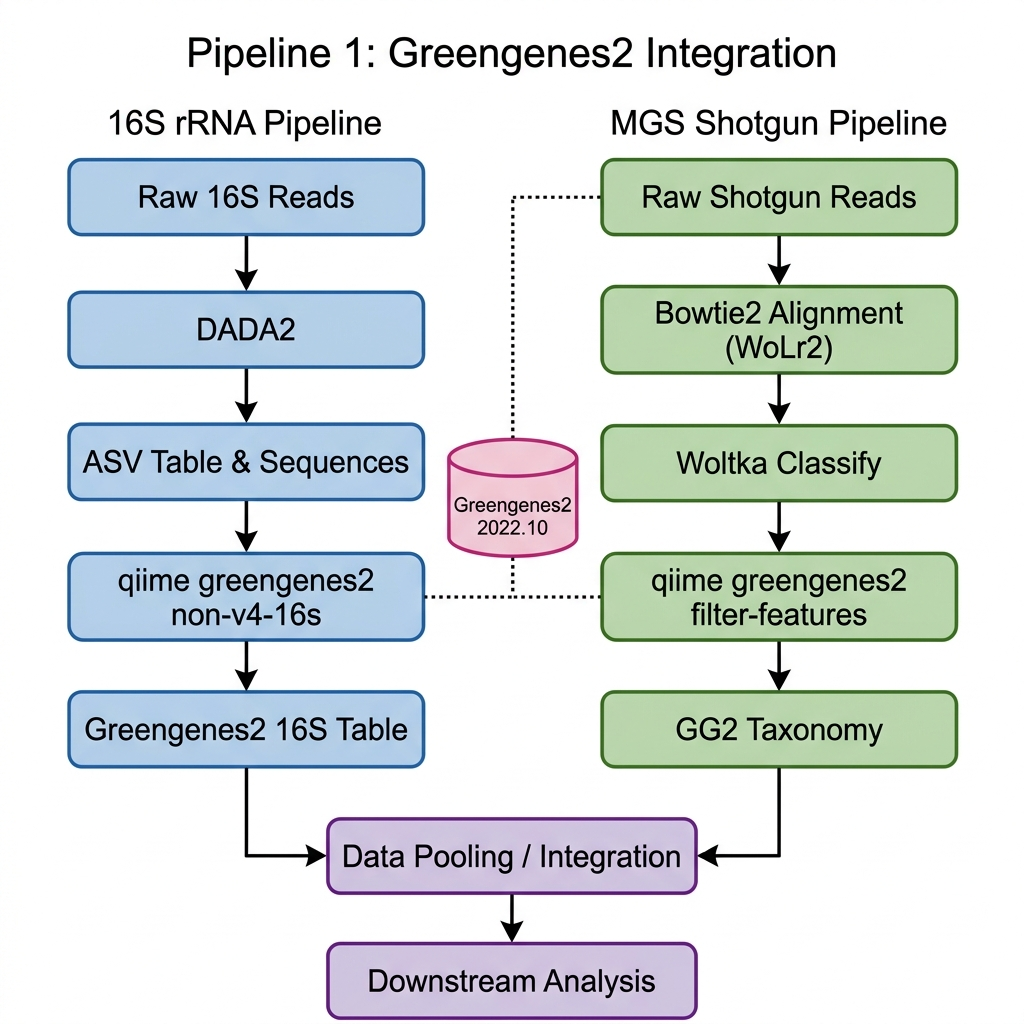
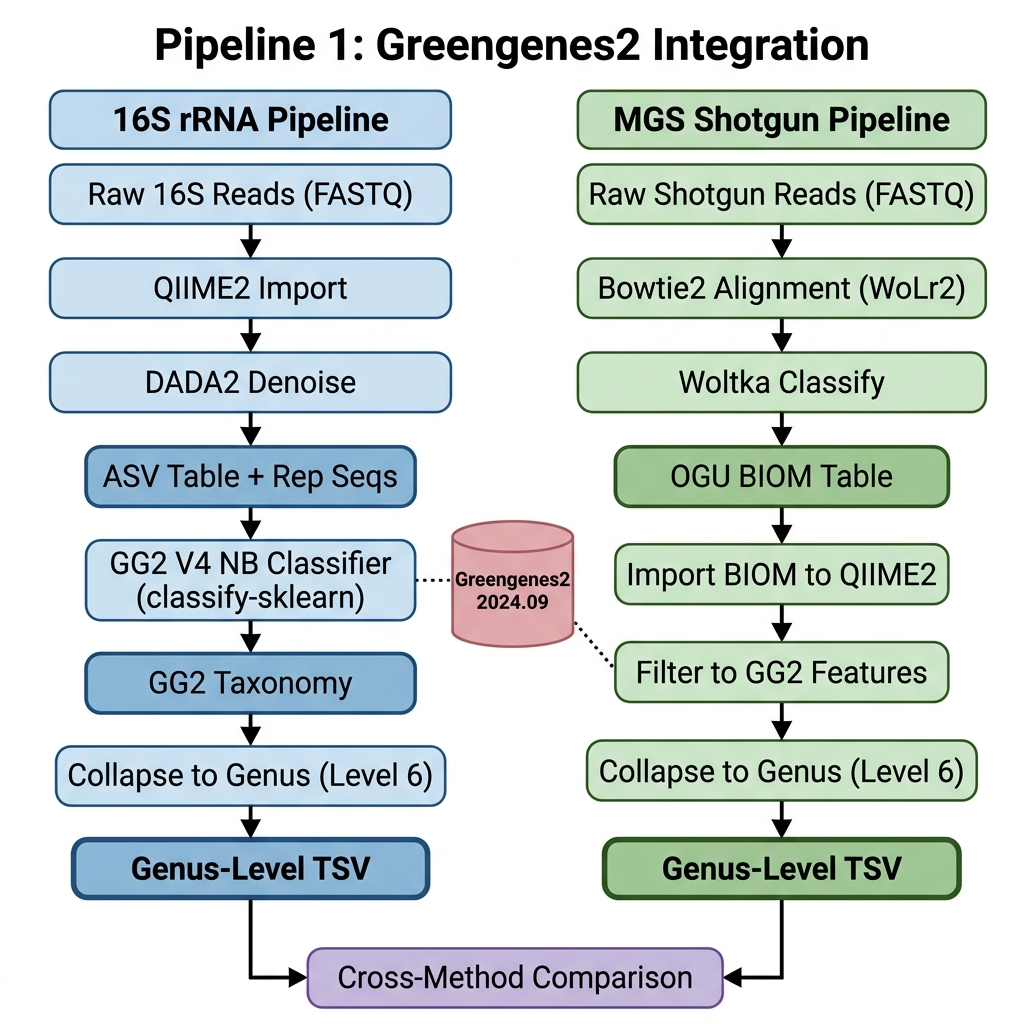
Update Pipeline 1 and Pipeline 3 flowcharts to match actual workflows
Pipeline 1:
- Replace q2-greengenes2 plugin commands with classify-sklearn
- Update GG2 database version from 2022.10 to 2024.09
- Add BIOM import, GG2 feature filtering, genus collapse, and TSV export steps

Pipeline 3:
- Remove Barrnap (SortMeRNA only, v4.3.6)
- Replace Kraken2/Bracken/MOSHPIT with DADA2 + classify-sklearn in QIIME2
- Show 16S side reusing DADA2 outputs from Pipeline 1
- Distinguish V4 vs full-length RefSeq 16S NB classifiers
- Add genus collapse and TSV export steps

diff --git a/pipeline_1_workflow.md b/pipeline_1_workflow.md
@@ -1,6 +1,6 @@
-# Pipeline 1: Integrated Taxonomy Workflow
+# Pipeline 1: Greengenes2 Integration
 
-This document outlines the standard operating procedure for **Pipeline 1**, which uses **Greengenes2** as the common reference to pool 16S and Metagenomic Shotgun (MGS) data.
+This document outlines the workflow for **Pipeline 1**, which uses **Greengenes2 (2024.09)** as the common reference taxonomy for both 16S amplicon and shotgun metagenomics data.
 
 ## Workflow Visualization
 
@@ -8,16 +8,31 @@ This document outlines the standard operating procedure for **Pipeline 1**, whic
 
 ## Key Implementation Steps
 
-### 1. 16S Harmonization
-- **Purpose**: Map amplicon sequence variants (ASVs) to the Greengenes2 reference tree.
-- **Key Command**: `qiime greengenes2 non-v4-16s` or `qiime greengenes2 filter-features`.
+### 16S rRNA Pipeline
 
-### 2. MGS Alignment
-- **Requirement**: Reads must be aligned against **Web of Life version 2 (WoLr2)** genomes.
-- **Tool**: Bowtie2 or similar aligner.
+1. **QIIME2 Import** — Import paired-end 16S FASTQ files via manifest into QIIME2 (`SampleData[PairedEndSequencesWithQuality]`).
+2. **DADA2 Denoise** — Denoise paired reads (`qiime dada2 denoise-paired`, trunc 150/150) to produce ASV feature table and representative sequences.
+3. **GG2 V4 NB Classifier** — Classify ASVs against the Greengenes2 2024.09 V4 backbone Naive Bayes classifier using `qiime feature-classifier classify-sklearn`.
+4. **Collapse to Genus** — Collapse the ASV table to genus level (level 6) using `qiime taxa collapse`.
+5. **Export TSV** — Export genus-level table to TSV via `biom convert`.
 
-### 3. MGS Feature Generation
-- **Tool**: **Woltka** classifies the alignments based on the WoL phylogeny, which is congruent with Greengenes2.
+### MGS Shotgun Pipeline
 
-### 4. Cross-Study Merging
-- Once both tables are processed through `q2-greengenes2`, they share the same Feature IDs and Taxonomic strings, allowing for direct merging using `qiime feature-table merge`.
+1. **Bowtie2 Alignment** — Align shotgun reads against the **Web of Life r2 (WoLr2)** reference genomes using Bowtie2 (≥80 GB memory, submitted via SLURM sbatch).
+2. **Woltka Classify** — Run Woltka OGU classification on the SAM alignments (standalone, in woltka conda env).
+3. **Import BIOM to QIIME2** — Import the Woltka OGU BIOM table into QIIME2 as a `FeatureTable[Frequency]`.
+4. **Import GG2 Taxonomy** — Import the GG2 taxonomy TSV as `FeatureData[Taxonomy]`.
+5. **Filter to GG2 Features** — Filter the OGU table to retain only features present in the GG2 taxonomy using `qiime feature-table filter-features`.
+6. **Collapse to Genus** — Collapse to genus level (level 6) using `qiime taxa collapse`.
+7. **Export TSV** — Export genus-level and full OGU tables to TSV.
+
+### Cross-Method Comparison
+
+Both genus-level TSV files use Greengenes2 taxonomy labels, enabling direct comparison:
+- `results/16S/otu_table_genus.tsv` — 16S amplicon side
+- `results/MGS/otu_table_genus.tsv` — MGS shotgun side
+
+## References
+- [Greengenes2 (2024.09)](https://forum.qiime2.org/t/introducing-greengenes2-2022-10/25291)
+- [q2-greengenes2 GitHub](https://github.com/biocore/q2-greengenes2)
+- [Woltka](https://github.com/qiyunzhu/woltka)

diff --git a/pipeline_3_workflow.md b/pipeline_3_workflow.md
@@ -1,6 +1,6 @@
-# Pipeline 3: 16S-Subset RefSeq (Extraction)
+# Pipeline 3: RefSeq 16S Extraction
 
-This pipeline extracts 16S rRNA reads from the shotgun pool to ensure consistency with the 16S sequencing data.
+This pipeline extracts 16S rRNA reads from shotgun data and classifies them using the **same NCBI RefSeq 16S database** used on the 16S amplicon side, ensuring identical taxonomy labels for cross-method comparison.
 
 ## Workflow Visualization
 
@@ -8,16 +8,31 @@ This pipeline extracts 16S rRNA reads from the shotgun pool to ensure consistenc
 
 ## Step-by-Step Instructions
 
-### 1. 16S rRNA Processing (RefSeq)
-- **Tool**: QIIME 2 / DADA2
-- **Goal**: Standard 16S processing using RefSeq as the reference database.
+### 16S rRNA Workflow
 
-### 2. Shotgun Metagenomics Processing (16S Subset)
-- **Tool**: SortMeRNA / Barrnap + QIIME 2 MOSHPIT
-- **Extraction**: Filter MGS FASTQ files for 16S-like reads using SortMeRNA or Barrnap.
-- **Classification**: Classify ONLY the extracted 16S reads against the **RefSeq 16S** database using Kraken2/Bracken.
+> Reuses DADA2 outputs (`dada2_table.qza`, `rep_seqs.qza`) from Pipeline 1.
+
+1. **RefSeq 16S V4 NB Classifier** — Classify the Pipeline 1 ASVs against the NCBI RefSeq 16S V4 Naive Bayes classifier (`refseq16s_V4_nb.qza`) using `qiime feature-classifier classify-sklearn`.
+2. **Collapse to Genus** — Collapse the ASV table to genus level (level 6) using `qiime taxa collapse`.
+3. **Export TSV** — Export genus-level table to TSV via `biom convert`.
+
+### MGS Shotgun Workflow
+
+1. **SortMeRNA v4.3.6** — Extract 16S rRNA reads from shotgun FASTQs using SortMeRNA with the SILVA rRNA database (`--paired_in --out2`). Submitted via SLURM sbatch (32 GB / 8 CPUs per job).
+2. **Import to QIIME2** — Create a manifest from extracted 16S FASTQ pairs and import into QIIME2 as `SampleData[PairedEndSequencesWithQuality]`.
+3. **DADA2 Denoise** — Denoise extracted 16S reads (`--p-trunc-len-f 0 --p-trunc-len-r 0`, no truncation since these are random 16S fragments, not amplicon reads).
+4. **RefSeq 16S Full-Length NB Classifier** — Classify ASVs against the NCBI RefSeq 16S full-length Naive Bayes classifier (`refseq16s_fullLength_nb.qza`) using `qiime feature-classifier classify-sklearn`.
+5. **Collapse to Genus** — Collapse to genus level (level 6) using `qiime taxa collapse`.
+6. **Export TSV** — Export genus-level table to TSV via `biom convert`.
+
+### Cross-Method Comparison
+
+Both genus-level TSV files use **identical NCBI taxonomy labels** (`k__Bacteria; p__...; g__...`):
+- `results/pipeline3/16S/otu_table_genus.tsv` — 16S amplicon side (V4 classifier)
+- `results/pipeline3/MGS/otu_table_genus.tsv` — MGS extracted-16S side (full-length classifier)
+
+> **Note:** The V4 and full-length classifiers are trained on the same 26,244 dereplicated RefSeq 16S sequences with identical NCBI taxonomy, so genus labels match exactly.
 
 ## References
 - [SortMeRNA GitHub](https://github.com/sortmerna/sortmerna)
-- [Barrnap GitHub](https://github.com/tseemann/barrnap)
-- [MOSHPIT Documentation](https://bokulich-lab.github.io/moshpit-docs/chapters/03_taxonomic_classification/reads.html)
+- [NCBI RefSeq 16S](https://www.ncbi.nlm.nih.gov/refseq/targetedloci/)
